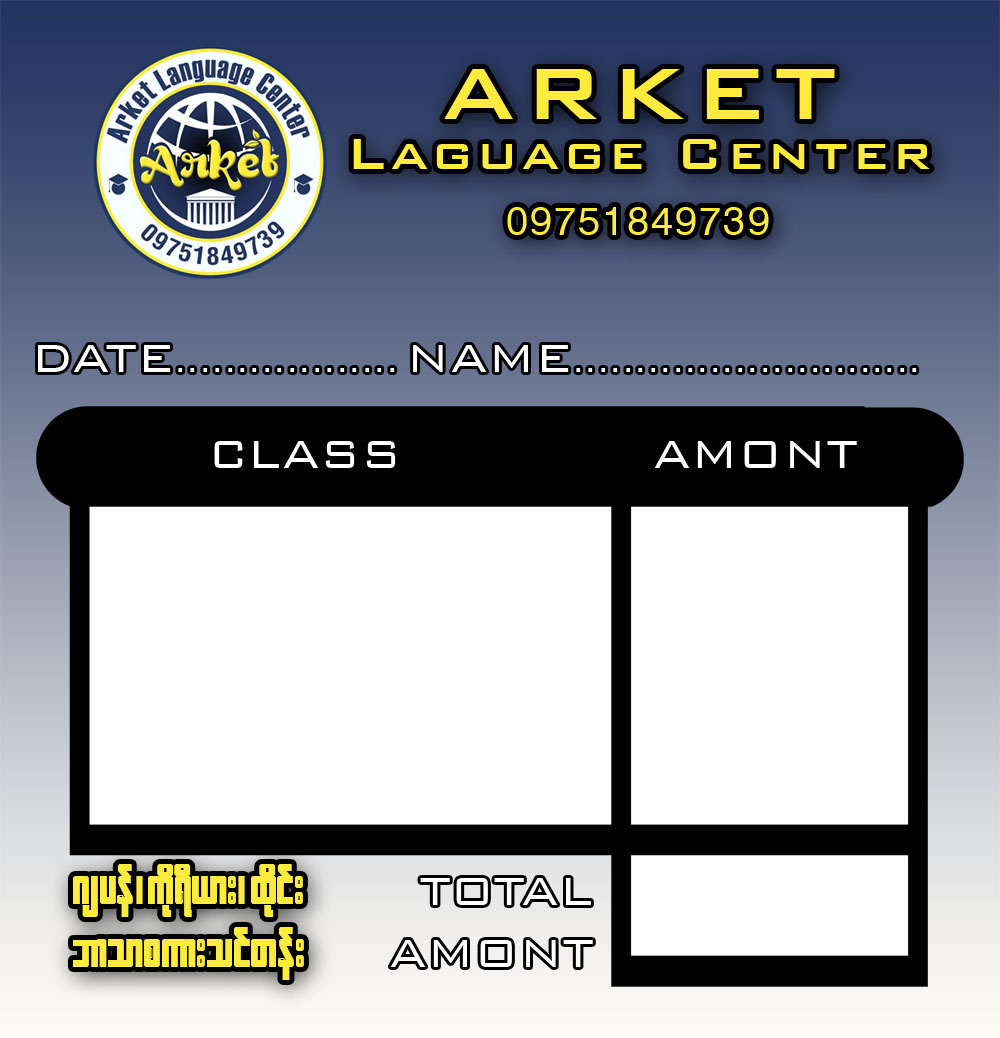
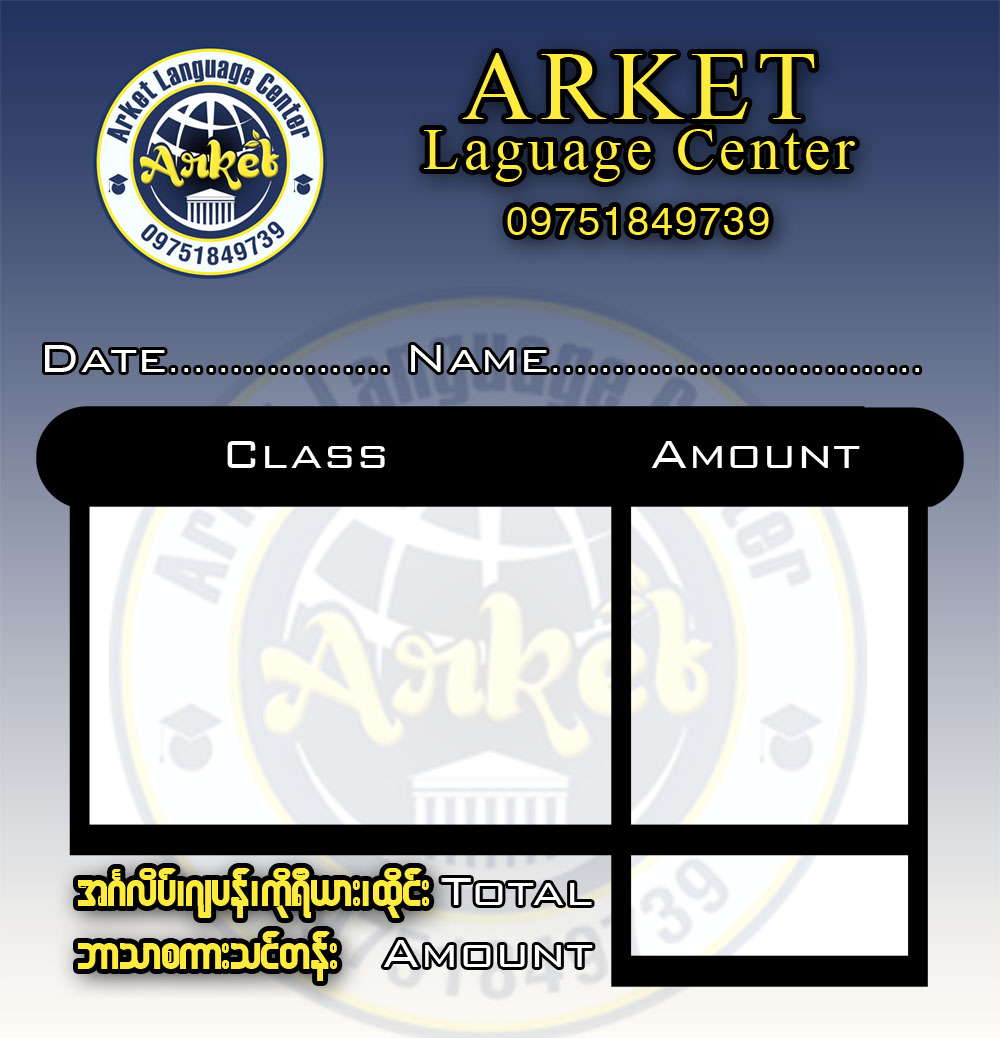
Add files via upload

diff --git a/arket/index.html b/arket/index.html
@@ -30,14 +30,15 @@
                 <input id="name" class="w3-input w3-center" type="text" name="title" placeholder="နာမည်"/>
                 </label>
 
+                </label><label for="edt_title">
+                <input id="date" class="w3-input w3-center" type="text" name="title" placeholder="နေ့"/>
+
+
                 <label for="edt_title">
-                <input id="nrc" class="w3-input w3-center" type="text" name="title" placeholder="အမျိုးအစား"/>
+                <input id="nrc" class="w3-input w3-center" type="text" name="title" placeholder="သင်တန်းအမျိုးအစား"/>
 
                 <label for="edt_title">
                 <input id="class" class="w3-input w3-center" type="text" name="title" placeholder="စျေးနှုန်း"/>
-
-                </label><label for="edt_title">
-                <input id="date" class="w3-input w3-center" type="text" name="title" placeholder="နေ့"/>
 
 
                 <div class="w3-center w3-margin-top">

diff --git a/arket/script.js b/arket/script.js
@@ -18,18 +18,18 @@ image.onload = function () {
 function drawImage() {
 	// ctx.clearRect(0, 0, canvas.width, canvas.height)
 	ctx.drawImage(image, 0, 0, canvas.width, canvas.height)
-	ctx.font = '20px Gadugi'
+	ctx.font = '20px Gadugi bold'
 	ctx.fillStyle = '#000000'
 
 //---NAME---//
-	ctx.fillText(nameInput.value, 290, 179)
+	ctx.fillText(nameInput.value, 280, 182)
 //---NAME---//
 	ctx.fillText(nrcInput.value, 60, 300)
 //---CLASS---//
         ctx.fillText(classInput.value, 320, 300)
         ctx.fillText(classInput.value, 320, 475)
 //---DATE---//
-        ctx.fillText(dateInput.value, 85, 179)
+        ctx.fillText(dateInput.value, 89, 182)
 //---CID---//
         ctx.fillText(cidInput.value, 500, 660)
 }
